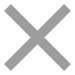
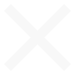
updated guide side mode visuals

diff --git a/vipr-portal/portal/app/views/tags/GettingStarted/gettingStarted.html b/vipr-portal/portal/app/views/tags/GettingStarted/gettingStarted.html
@@ -1,19 +1,23 @@
 <section>
     <div ng-class="{'wizard-panel center-content':guideMode=='full'}" ng-show="guideVisible">
         <div ng-show="currentStep != 3" ng-class="{'panel-heading':guideMode=='full'}">
-            <div class='btn-toolbar pull-right'>
-                <div ng-class="{'wizard-buttons-full':guideMode=='full'}" class='wizard-buttons btn-group'>
-                    <span ng-show="guideMode=='side'">
-                        <a ng-show="currentStep <= 2" ng-click="toggleMode('full');"><i class="glyphicon glyphicon-fullscreen"></i></a>
-                        <a ng-show="currentStep > 2" ng-click="completeStep();"><i class="wizard-side-next glyphicon glyphicon-arrow-right"></i></a>
-                    </span>
-                    <a ng-class="{'wizard-side-close':guideMode=='side'}" ng-show="completedSteps > 2" ng-click="closeGuide();"><i class="glyphicon glyphicon-remove-circle" ></i></a>
-                </div>
-            </div>
             <h4 ng-show="guideMode=='full'" class="">&{'gettingStarted.header.full'}</h4>
-            <div ng-show="guideMode=='side' && currentStep > 2" class="title-side-next">&{'gettingStarted.header.side.next'}</div>
-            <div ng-show="guideMode=='side' && currentStep <= 2" class="title-side">&{'gettingStarted.header.side'}</div>
 
+            <div ng-show="guideMode=='side'">
+                <a ng-show="currentStep <= 2" ng-click="toggleMode('full');" target="_self">
+                    <div class="wizard-buttons">
+                        <img class="wizard-side-next" src="/public/img/icon-guide-arrow.png" border="0">
+                        <span class="title-side-next">&{'gettingStarted.header.side'}</span>
+                    </div>
+                </a>
+                <a ng-show="currentStep > 2" ng-click="completeStep();" target="_self">
+                    <div class="wizard-buttons">
+                        <img class="wizard-side-next" src="/public/img/icon-guide-arrow.png" border="0">
+                        <span class="title-side-next">&{'gettingStarted.header.side.next'}</span>
+                    </div>
+                </a>
+                <a ng-show="completedSteps > 2" ng-click="closeGuide();"><img class="wizard-side-close" src="/public/img/icon-guide-close.png"></a>
+            </div>
         </div>
         <div class="{'panel-body':guideMode=='full'}">
 
@@ -61,9 +65,6 @@
             </guidestep>
 
             <guidestep class="required-step" name="license" ng-show="guideDataAvailable && currentStep == 1">
-                <div ng-if="guideMode=='side'">
-                    <step-side><div ng-show="currentStep <= completedSteps" class="step-circle"><i class="glyphicon glyphicon-ok"></i></div>&{'gettingStarted.licenses.title'}</step-side>
-                </div>
                 <div id="css-table" ng-if="guideMode=='full'">
                     <div class="col-1">
                         <div class="guide-steppanel">
@@ -91,9 +92,6 @@
             </guidestep>
 
             <guidestep class="required-step" name="initialSetup" ng-show="guideDataAvailable && currentStep == 2">
-                <div ng-if="guideMode=='side'">
-                    <step-side><div ng-show="currentStep <= completedSteps" class="step-circle"><i class="glyphicon glyphicon-ok"></i></div>&{'gettingStarted.initialsetup.title'}</step-side>
-                </div>
                 <div id="css-table" ng-if="guideMode=='full'">
                     <div class="col-1">
                         <div class="guide-steppanel">

diff --git a/vipr-portal/portal/public/stylesheets/content.less b/vipr-portal/portal/public/stylesheets/content.less
@@ -1145,19 +1145,11 @@ ul.guide-steps > li:first-child > div.step-circle::before {
     position: absolute;
 }
 
-.wizard-dialog .title-side {
-    font-size: 12px;
-    color: #e6e6e6;
-    text-transform: uppercase;
-    opacity: 0.5;
-}
-
 .wizard-dialog .title-side-next {
-    font-size: 25px;
+    font-size: 20px;
     color: white;
-    text-transform: uppercase;
-    //opacity: 0.5;
-    padding:10px;
+    float: right;
+    margin-top: 2px;
 }
 
 .wizard-dialog .step-side {
@@ -1171,7 +1163,6 @@ ul.guide-steps > li:first-child > div.step-circle::before {
     background-color: rgba(0, 0, 0, 0.75);
     color: white;
     display: inline-block;
-    padding: 12px;
     width: 306px;
     border-top-left-radius: 5px;
     border-bottom-left-radius: 5px;
@@ -1193,17 +1184,22 @@ ul.guide-steps > li:first-child > div.step-circle::before {
 }
 
 .wizard-side-close {
-    top: -5px;
-    right: -5px;
-    font-size: small;
+    height: 16px;
+    right: 12px;
+    top: 12px;
     position: absolute;
+    cursor: pointer;
+    opacity:0.6;
+}
+
+.wizard-side-close:hover {
+    opacity:1;
 }
 
 .wizard-side-next {
-    position: absolute;
-    font-size: 50px;
-    top: -8px;
-    right: 80px;
+    height: 24px;
+    padding-right: 20px;
+    float: left;
 }
 
 .popover {
@@ -1235,7 +1231,7 @@ ul.guide-steps > li:first-child > div.step-circle::before {
 }
 
 .wizard-side.guide-menuopen{
-   padding-left: 12px;
+   padding-left: 0px;
 }
 
 .guide-fullpage{
@@ -1362,11 +1358,18 @@ ul.guide-steps > li:first-child > div.step-circle::before {
 }
 
 .wizard-buttons {
-    z-index: 1;
+    float: left;
+    padding-top: 8px;
+    padding-bottom: 8px;
+    padding-left: 12px;
+    padding-right: 12px;
+    margin: 12px;
+    cursor: pointer;
+    border-radius: 4px;
 }
 
-.wizard-buttons-full {
-    margin-top: -10px;
+.wizard-buttons:hover{
+   background-color:#282828;
 }
 
 step-side > div.step-circle {
